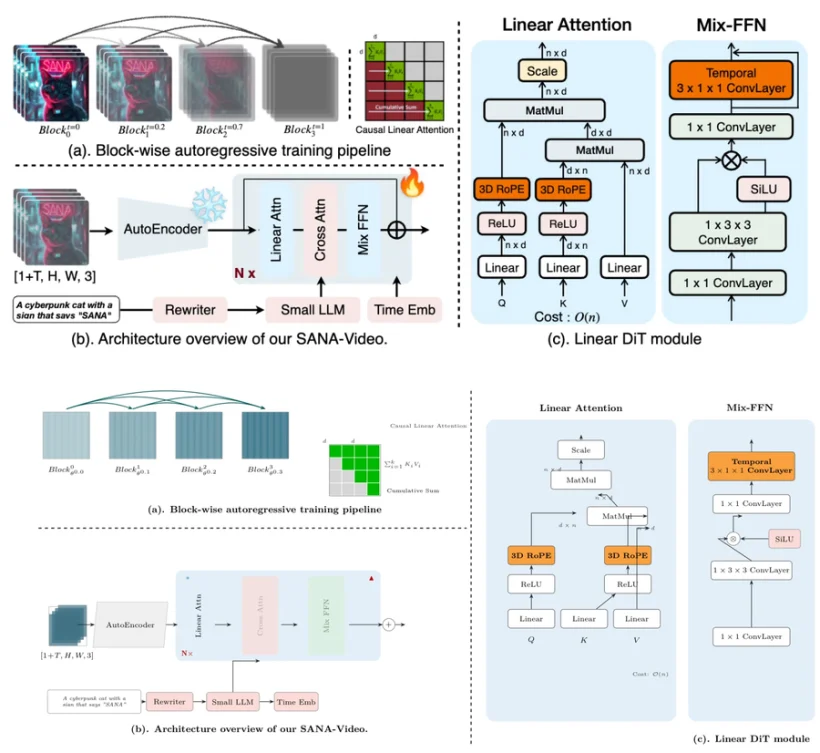
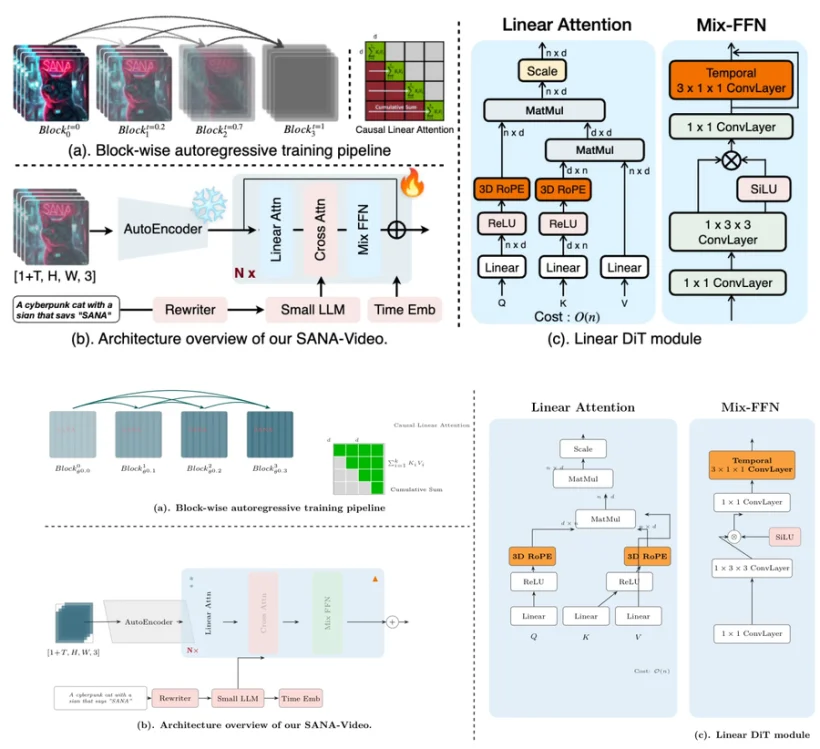
improve(replicas): 第四轮 —— 05 架构图细节对齐
- (c) 面板标题放大到 large/bfseries，MatMul 居中同列
- V 分支箭头绕开右侧 3D RoPE 再上行
- AutoEncoder 改成真正的平行四边形（手绘路径）
- (a) 四帧加圆角 + SANA 文字水印，贴近原图照片感
- (b) 补雪花/火焰图标；色带收窄贴合框内

diff --git a/tools/figlab/reps_tikz.py b/tools/figlab/reps_tikz.py
@@ -58,13 +58,14 @@ def fig05() -> str:
 
 % ================= (a) 训练流水线 =================
 % 四帧
-\foreach \i/\x/\op in {0/0.15/0.42, 1/2.35/0.62, 2/4.55/0.80, 3/6.75/0.96}{
+\foreach \i/\x/\op in {0/0.15/0.45, 1/2.35/0.66, 2/4.55/0.84, 3/6.75/0.98}{
   \begin{scope}[shift={(\x,9.25)}]
-    \fill[cyan!55!black, opacity=\op] (0,0) rectangle (1.55,1.55);
+    \fill[cyan!50!black, opacity=\op, rounded corners=2pt] (0,0) rectangle (1.55,1.55);
     \foreach \k in {0,...,7}{
-      \fill[white, opacity=.10] (\k*0.22,0) rectangle ++(0.15,1.55);
+      \fill[white, opacity=.09] (\k*0.22,0) rectangle ++(0.15,1.55);
     }
-    \draw[black!35, line width=.4pt] (0,0) rectangle (1.55,1.55);
+    \node[font=\tiny, text=red!65!white, opacity=\op] at (0.55,0.95) {SANA};
+    \draw[black!30, line width=.4pt, rounded corners=2pt] (0,0) rectangle (1.55,1.55);
   \end{scope}
   \node[font=\scriptsize, below=1.5pt] at (\x+0.78, 9.22)
     {$Block^{\i}_{\theta^{0.\i}}$};
@@ -106,31 +107,34 @@ def fig05() -> str:
 \node[font=\scriptsize] at (0.95,2.72) {$[1\!+\!T, H, W, 3]$};
 
 % AutoEncoder（平行四边形）
-\node[draw=black!25, fill=black!6, inner sep=3pt, minimum width=2.5cm, minimum height=1.5cm,
-      font=\scriptsize, trapezium, trapezium left angle=74, trapezium right angle=106,
-      trapezium stretches=true] (ae) at (3.05,3.75) {AutoEncoder};
+\begin{scope}[shift={(1.95,3.05)}]
+  \fill[black!7] (0.30,0) -- (3.05,0) -- (2.75,1.42) -- (0,1.42) -- cycle;
+  \draw[black!25, line width=.5pt] (0.30,0) -- (3.05,0) -- (2.75,1.42) -- (0,1.42) -- cycle;
+  \node[font=\scriptsize] (ae) at (1.52,0.71) {AutoEncoder};
+\end{scope}
 \draw[arr] (1.30,3.75) -- (ae.west);
 
 % N x 大框
 \fill[fxblue, opacity=.55, rounded corners=6pt] (4.55,2.55) rectangle (11.35,5.55);
 \node[font=\scriptsize\bfseries, text=red!70!black, anchor=south west] at (4.62,2.58) {$\mathbf{N\times}$};
 
-\node[font=\scriptsize, rotate=90, align=center] (la) at (5.30,4.05) {Linear Attn};
-\node[font=\scriptsize, rotate=90, align=center] (ca) at (7.35,4.05) {Cross Attn};
-\node[font=\scriptsize, rotate=90, align=center] (ff) at (9.55,4.05) {Mix FFN};
-\fill[fxpnk, opacity=.75, rounded corners=2pt] (6.75,2.75) rectangle (7.95,5.35);
-\fill[fxgrn, opacity=.55, rounded corners=2pt] (8.95,2.75) rectangle (10.15,5.35);
+\node[font=\scriptsize, rotate=90, align=center] (la) at (5.45,4.05) {Linear Attn};
+\node[font=\scriptsize, rotate=90, align=center] (ca) at (7.30,4.05) {Cross Attn};
+\node[font=\scriptsize, rotate=90, align=center] (ff) at (9.45,4.05) {Mix FFN};
+\fill[fxpnk, opacity=.75, rounded corners=2pt] (6.80,2.68) rectangle (7.80,5.42);
+\fill[fxgrn, opacity=.55, rounded corners=2pt] (8.95,2.68) rectangle (9.95,5.42);
 
 \draw[arr] (ae.east) -- (4.62,3.75);
-\draw[arr] (5.85,3.75) -- (6.40,3.75);
-\draw[arr] (8.05,3.75) -- (8.60,3.75);
-\draw[arr] (10.30,3.75) -- (11.42,3.75);
+\draw[arr] (5.95,3.75) -- (6.45,3.75);
+\draw[arr] (7.95,3.75) -- (8.50,3.75);
+\draw[arr] (10.10,3.75) -- (11.42,3.75);
 \node[circle, draw=black!65, fill=white, inner sep=1.3pt, font=\scriptsize] (plus) at (11.62,3.75) {$+$};
 \draw[arr] (plus) -- ++(0.55,0);
 
 % 图标位（雪花 / 火焰）
-\node[font=\scriptsize, text=cyan!70!black] at (4.95,5.30) {$\ast$};
-\node[font=\scriptsize, text=red!75!black] at (11.05,5.30) {$\blacktriangle$};
+\node[font=\small, text=cyan!60!black] at (4.90,5.20) {$\ast$};
+\node[font=\scriptsize, text=cyan!60!black] at (4.90,4.95) {$\ast$};
+\node[font=\small, text=orange!90!black] at (11.05,5.20) {$\blacktriangle$};
 
 % 文本分支
 \node[draw=black!45, rounded corners=2pt, fill=white, minimum width=3.1cm,
@@ -147,18 +151,18 @@ def fig05() -> str:
 
 % ================= (c) Linear DiT module =================
 % ---- 面板标题（在框上方）
-\node[ttl] at (18.0,10.95) {Linear Attention};
-\node[ttl] at (23.6,10.95) {Mix-FFN};
+\node[font=\large\bfseries] at (18.0,10.95) {Linear Attention};
+\node[font=\large\bfseries] at (23.6,10.95) {Mix-FFN};
 
 % ---- Linear Attention 面板
 \fill[fxblue, opacity=.55, rounded corners=8pt] (14.85,0.55) rectangle (21.15,10.55);
 
 \node[lin, minimum width=1.55cm] (sc) at (18.0,9.55) {Scale};
 \node[lin, minimum width=2.0cm] (mm1) at (18.0,8.55) {MatMul};
-\node[lin, minimum width=2.0cm] (mm0) at (19.20,7.35) {MatMul};
+\node[lin, minimum width=2.0cm] (mm0) at (18.75,7.20) {MatMul};
 
-\node[org, minimum width=1.55cm] (ropeL) at (16.35,6.05) {3D RoPE};
-\node[org, minimum width=1.55cm] (ropeR) at (19.55,6.05) {3D RoPE};
+\node[org, minimum width=1.55cm] (ropeL) at (16.30,5.95) {3D RoPE};
+\node[org, minimum width=1.55cm] (ropeR) at (20.15,5.95) {3D RoPE};
 \node[lin, minimum width=1.55cm] (rl) at (16.35,5.10) {ReLU};
 \node[lin, minimum width=1.55cm] (rr) at (19.55,5.10) {ReLU};
 \node[lin, minimum width=1.55cm] (lnQ) at (16.35,3.95) {Linear};
@@ -173,10 +177,10 @@ def fig05() -> str:
 \draw[arr] (rl) -- (ropeL);
 \draw[arr] (lnK) -- (rr);
 \draw[arr] (rr) -- (ropeR);
-\draw[arr] (ropeL.north) |- (17.85,7.45);
-\draw[arr] (ropeR.north) -- (19.55,7.35) -- (20.20,7.35);
-\draw[arr] (lnV.north) -- (19.85,6.95) -- (20.28,6.95);
-\draw[arr] (mm0.north) -- (18.85,8.05) -- (18.55,8.05);
+\draw[arr] (ropeL.north) |- (17.72,6.85);
+\draw[arr] (ropeR.north) -- (20.15,6.85) -- (19.80,6.85);
+\draw[arr] (lnV.north) -- (19.85,6.55) -- (20.90,6.55) -- (20.90,7.35) -- (20.05,7.35);
+\draw[arr] (mm0.north) -- (18.75,8.05);
 \draw[arr] (mm1) -- (sc);
 \draw[arr] (sc.north) -- (18.0,10.05);
 
